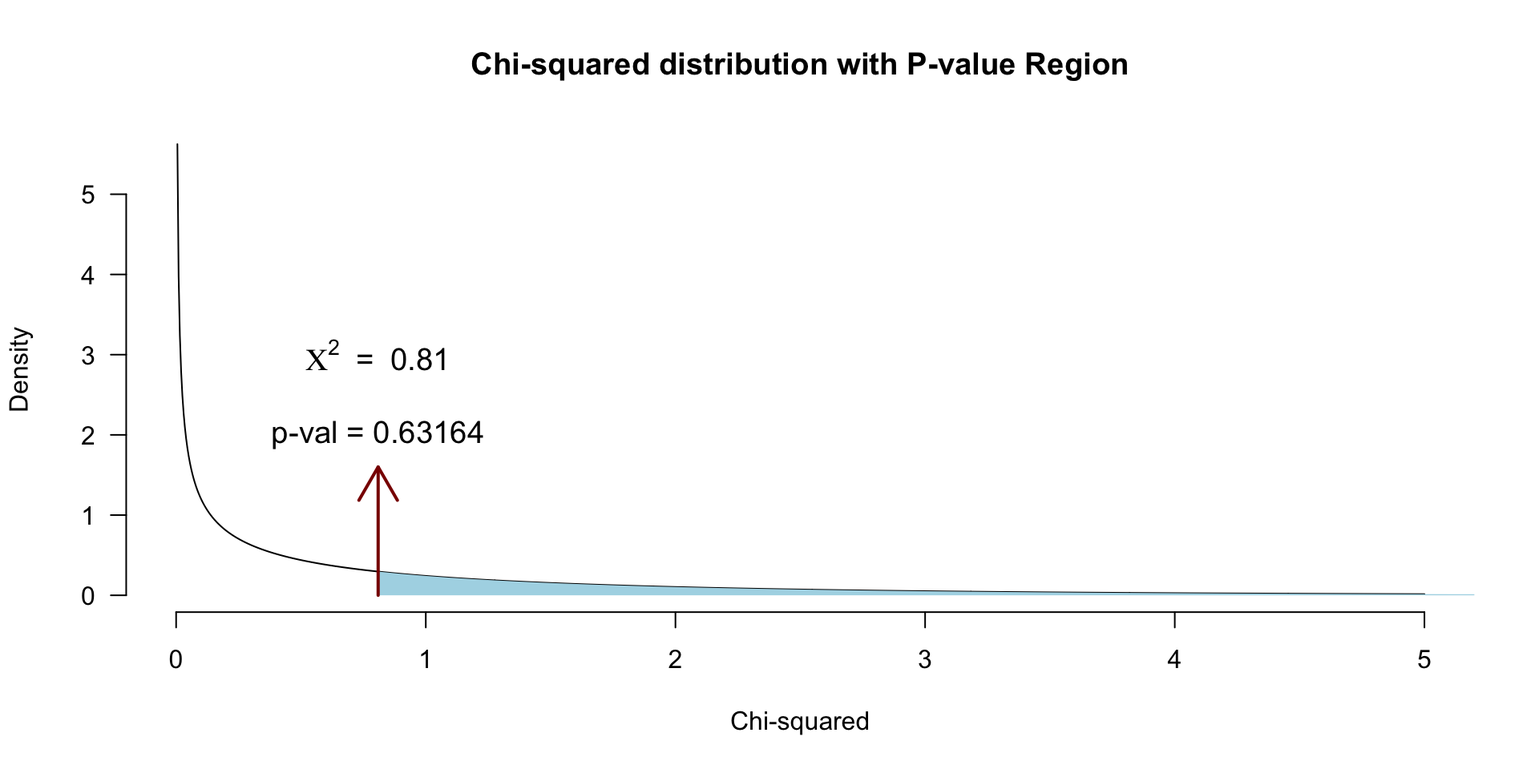
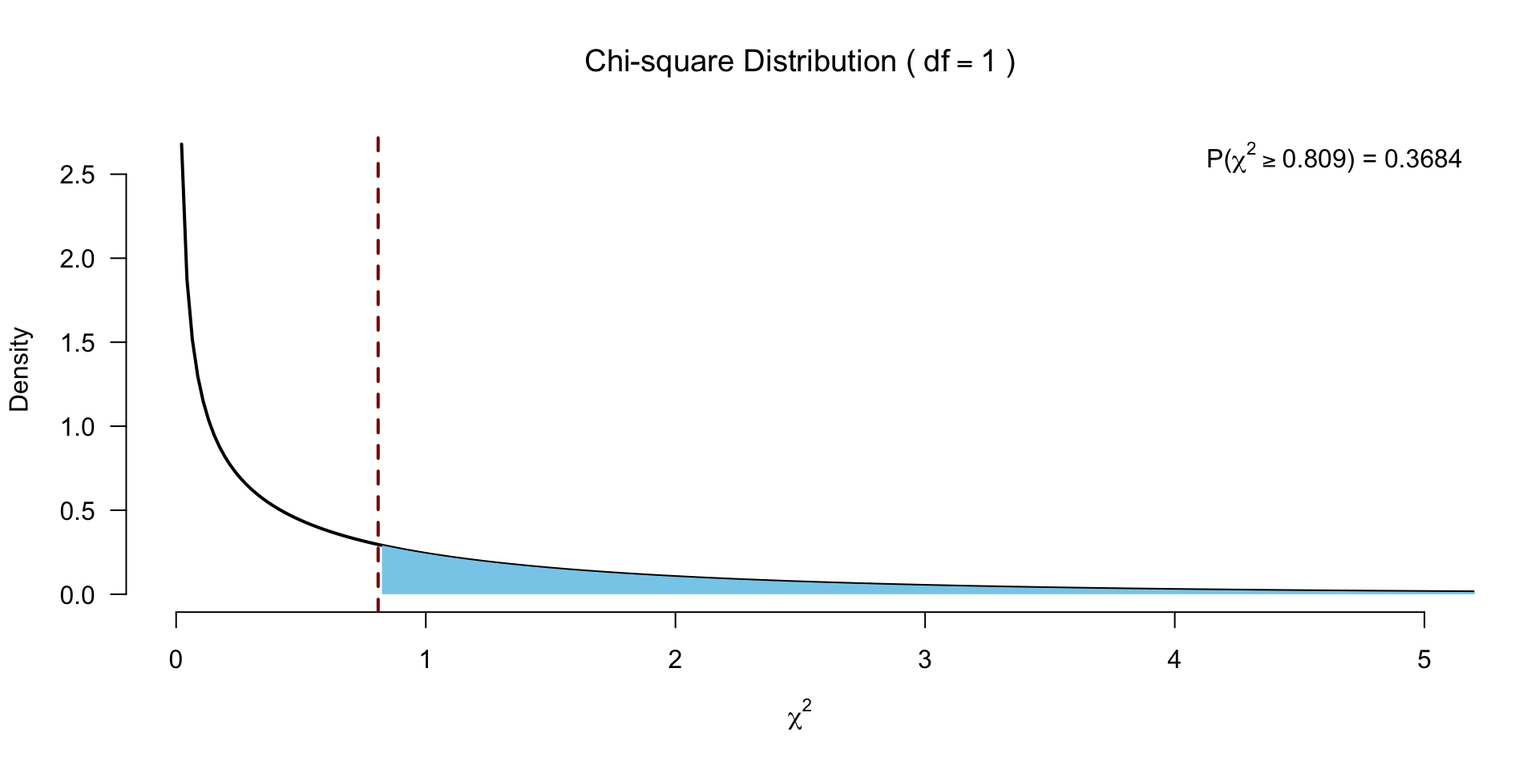
upd chi

diff --git a/SSR/2025/28. chi_squared_test/28. chi_squared_test.slide.html b/SSR/2025/28. chi_squared_test/28. chi_squared_test.slide.html
@@ -405,6 +405,7 @@
 
 <section id="title-slide" data-background-image="../../images/bikes.jpg" data-background-position="bottom" data-background-size="contain" class="quarto-title-block center">
   <h1 class="title">28. Chi-squared test</h1>
+  <p class="subtitle">Contingency Tables</p>
 
 <div class="quarto-title-authors">
 <div class="quarto-title-author">
@@ -423,6 +424,7 @@ Johnny van Doorn
 
 <div class="goals">
 <p>In this lecture we aim to:</p>
+<!-- - Stroll down memory lane -->
 <ul>
 <li>Discuss association between categorical variables
 <ul>
@@ -431,7 +433,8 @@ Johnny van Doorn
 <li>Show this test in JASP</li>
 </ul>
 <p><strong>Reading:</strong> Chapter 16</p>
-</div></section>
+</div>
+</section>
 <section>
 <section id="chi2-test" class="title-slide slide level1 section center">
 <h1><span class="math inline">\(\chi^2\)</span> test</h1>
@@ -471,8 +474,8 @@ Johnny van Doorn
 <div class="cell">
 <div class="cell-output-display">
 
-<div class="datatables html-widget html-fill-item" id="htmlwidget-e1877e20b2d12498623e" style="width:100%;height:auto;"></div>
-<script type="application/json" data-for="htmlwidget-e1877e20b2d12498623e">{"x":{"filter":"none","vertical":false,"data":[["1","2","3","4","5","6","7","8","9","10","11","12","13","14","15","16","17","18","19","20","21","22","23","24","25","26","27","28","29","30","31","32","33","34","35","36","37","38","39","40","41","42","43","44","45","46","47","48","49","50","51","52","53","54","55","56","57","58","59","60","61","62","63","64","65","66","67","68","69","70","71","72","73","74","75","76","77","78","79","80","81","82","83","84","85","86","87","88","89","90","91","92","93","94","95","96","97","98","99","100","101","102","103","104","105","106","107","108","109","110","111","112","113","114","115","116","117"],["Dogs","Other","Cats","Dogs","Dogs","Cats","Dogs","Dogs","Dogs","Other","Dogs","Cats","Dogs","Cats","Cats","Cats","Cats","Cats","Dogs","Cats","Cats","Cats","Dogs","Dogs","Dogs","Dogs","Dogs","Dogs","Dogs","Cats","Cats","Dogs","Cats","Cats","Cats","Cats","Cats","Cats","Dogs","Dogs","Cats","Dogs","Cats","Dogs","Other","Cats","Cats","Dogs","Dogs","Cats","Cats","Cats","Dogs","Cats","Dogs","Cats","Cats","Cats","Dogs","Dogs","Dogs","Cats","Dogs","Cats","Dogs","Other","Cats","Other","Cats","Cats","Dogs","Cats","Dogs","Cats","Dogs","Dogs","Dogs","Dogs","Other","Dogs","Cats","Dogs","Dogs","Cats","Dogs","Dogs","Cats","Dogs","Dogs","Dogs","Cats","Cats","Cats","Cats","Dogs","Dogs","Cats","Cats","Dogs","Other","Dogs","Dogs","Dogs","Dogs","Cats","Cats","Cats","Cats","Dogs","Dogs","Dogs","Cats","Cats","Cats","Other","Dogs","Dogs"],["Live","Live","Live","Live","Live","Live","Live","Live","Live","Live","Live","Live","Live","Live","Live","Live","Digital","Digital","Live","Live","Digital","Live","Live","Live","Live","Live","Live","Digital","Live","Live","Live","Digital","Live","Live","Live","Live","Digital","Live","Digital","Digital","Live","Digital","Live","Live","Live","Digital","Live","Digital","Digital","Digital","Digital","Digital","Live","Live","Digital","Live","Digital","Digital","Digital","Live","Digital","Live","Live","Live","Live","Live","Digital","Digital","Digital","Live","Digital","Digital","Digital","Live","Live","Digital","Digital","Live","Live","Live","Live","Digital","Digital","Digital","Digital","Digital","Digital","Live","Digital","Digital","Digital","Digital","Digital","Live","Digital","Digital","Live","Digital","Digital","Digital","Digital","Digital","Digital","Digital","Digital","Digital","Digital","Digital","Digital","Digital","Digital","Digital","Digital","Digital","Digital","Digital","Digital"],["Introvert","Introvert","Introvert","Extrovert","Introvert","Introvert","Introvert","Extrovert","Extrovert","Extrovert","Extrovert","Introvert","Extrovert","Extrovert","Introvert","Introvert","Introvert","Extrovert","Extrovert","Introvert","Introvert","Introvert","Introvert","Introvert","Extrovert","Introvert","Extrovert","Introvert","Introvert","Introvert","Introvert","Introvert","Introvert","Introvert","Extrovert","Introvert","Introvert","Introvert","Extrovert","Extrovert","Extrovert","Extrovert","Introvert","Introvert","Extrovert","Introvert","Extrovert","Introvert","Extrovert","Introvert","Extrovert","Introvert","Extrovert","Introvert","Extrovert","Introvert","Extrovert","Introvert","Extrovert","Extrovert","Introvert","Introvert","Extrovert","Introvert","Introvert","Introvert","Extrovert","Introvert","Introvert","Extrovert","Introvert","Introvert","Introvert","Extrovert","Introvert","Extrovert","Extrovert","Introvert","Extrovert","Introvert","Extrovert","Introvert","Introvert","Extrovert","Introvert","Extrovert","Extrovert","Introvert","Extrovert","Extrovert","Extrovert","Introvert","Introvert","Introvert","Introvert","Extrovert","Extrovert","Introvert","Extrovert","Extrovert","Introvert","Extrovert","Introvert","Introvert","Extrovert","Extrovert","Introvert","Extrovert","Extrovert","Introvert","Extrovert","Introvert","Introvert","Introvert","Introvert","Extrovert","Extrovert"]],"container":"<table class=\"display\">\n  <thead>\n    <tr>\n      <th> <\/th>\n      <th>Animal<\/th>\n      <th>Lecture<\/th>\n      <th>Personality<\/th>\n    <\/tr>\n  <\/thead>\n<\/table>","options":{"columnDefs":[{"orderable":false,"targets":0},{"name":" ","targets":0},{"name":"Animal","targets":1},{"name":"Lecture","targets":2},{"name":"Personality","targets":3}],"order":[],"autoWidth":false,"orderClasses":false}},"evals":[],"jsHooks":[]}</script>
+<div class="datatables html-widget html-fill-item" id="htmlwidget-d0a11a1b919a54d9ee7f" style="width:100%;height:auto;"></div>
+<script type="application/json" data-for="htmlwidget-d0a11a1b919a54d9ee7f">{"x":{"filter":"none","vertical":false,"data":[["1","2","3","4","5","6","7","8","9","10","11","12","13","14","15","16","17","18","19","20","21","22","23","24","25","26","27","28","29","30","31","32","33","34","35","36","37","38","39","40","41","42","43","44","45","46","47","48","49","50","51","52","53","54","55","56","57","58","59","60","61","62","63","64","65","66","67","68","69","70","71","72","73","74","75","76","77","78","79","80","81","82","83","84","85","86","87","88","89","90","91","92","93","94","95","96","97","98","99","100","101","102","103","104","105","106","107","108","109","110","111","112","113","114","115","116","117"],["Dogs","Other","Cats","Dogs","Dogs","Cats","Dogs","Dogs","Dogs","Other","Dogs","Cats","Dogs","Cats","Cats","Cats","Cats","Cats","Dogs","Cats","Cats","Cats","Dogs","Dogs","Dogs","Dogs","Dogs","Dogs","Dogs","Cats","Cats","Dogs","Cats","Cats","Cats","Cats","Cats","Cats","Dogs","Dogs","Cats","Dogs","Cats","Dogs","Other","Cats","Cats","Dogs","Dogs","Cats","Cats","Cats","Dogs","Cats","Dogs","Cats","Cats","Cats","Dogs","Dogs","Dogs","Cats","Dogs","Cats","Dogs","Other","Cats","Other","Cats","Cats","Dogs","Cats","Dogs","Cats","Dogs","Dogs","Dogs","Dogs","Other","Dogs","Cats","Dogs","Dogs","Cats","Dogs","Dogs","Cats","Dogs","Dogs","Dogs","Cats","Cats","Cats","Cats","Dogs","Dogs","Cats","Cats","Dogs","Other","Dogs","Dogs","Dogs","Dogs","Cats","Cats","Cats","Cats","Dogs","Dogs","Dogs","Cats","Cats","Cats","Other","Dogs","Dogs"],["Live","Live","Live","Live","Live","Live","Live","Live","Live","Live","Live","Live","Live","Live","Live","Live","Digital","Digital","Live","Live","Digital","Live","Live","Live","Live","Live","Live","Digital","Live","Live","Live","Digital","Live","Live","Live","Live","Digital","Live","Digital","Digital","Live","Digital","Live","Live","Live","Digital","Live","Digital","Digital","Digital","Digital","Digital","Live","Live","Digital","Live","Digital","Digital","Digital","Live","Digital","Live","Live","Live","Live","Live","Digital","Digital","Digital","Live","Digital","Digital","Digital","Live","Live","Digital","Digital","Live","Live","Live","Live","Digital","Digital","Digital","Digital","Digital","Digital","Live","Digital","Digital","Digital","Digital","Digital","Live","Digital","Digital","Live","Digital","Digital","Digital","Digital","Digital","Digital","Digital","Digital","Digital","Digital","Digital","Digital","Digital","Digital","Digital","Digital","Digital","Digital","Digital","Digital"],["Introvert","Introvert","Introvert","Extrovert","Introvert","Introvert","Introvert","Extrovert","Extrovert","Extrovert","Extrovert","Introvert","Extrovert","Extrovert","Introvert","Introvert","Introvert","Extrovert","Extrovert","Introvert","Introvert","Introvert","Introvert","Introvert","Extrovert","Introvert","Extrovert","Introvert","Introvert","Introvert","Introvert","Introvert","Introvert","Introvert","Extrovert","Introvert","Introvert","Introvert","Extrovert","Extrovert","Extrovert","Extrovert","Introvert","Introvert","Extrovert","Introvert","Extrovert","Introvert","Extrovert","Introvert","Extrovert","Introvert","Extrovert","Introvert","Extrovert","Introvert","Extrovert","Introvert","Extrovert","Extrovert","Introvert","Introvert","Extrovert","Introvert","Introvert","Introvert","Extrovert","Introvert","Introvert","Extrovert","Introvert","Introvert","Introvert","Extrovert","Introvert","Extrovert","Extrovert","Introvert","Extrovert","Introvert","Extrovert","Introvert","Introvert","Extrovert","Introvert","Extrovert","Extrovert","Introvert","Extrovert","Extrovert","Extrovert","Introvert","Introvert","Introvert","Introvert","Extrovert","Extrovert","Introvert","Extrovert","Extrovert","Introvert","Extrovert","Introvert","Introvert","Extrovert","Extrovert","Introvert","Extrovert","Extrovert","Introvert","Extrovert","Introvert","Introvert","Introvert","Introvert","Extrovert","Extrovert"]],"container":"<table class=\"display\">\n  <thead>\n    <tr>\n      <th> <\/th>\n      <th>Animal<\/th>\n      <th>Lecture<\/th>\n      <th>Personality<\/th>\n    <\/tr>\n  <\/thead>\n<\/table>","options":{"columnDefs":[{"orderable":false,"targets":0},{"name":" ","targets":0},{"name":"Animal","targets":1},{"name":"Lecture","targets":2},{"name":"Personality","targets":3}],"order":[],"autoWidth":false,"orderClasses":false}},"evals":[],"jsHooks":[]}</script>
 </div>
 </div>
 </small><p><small></small></p>
@@ -610,7 +613,7 @@ Lecture   Extrovert Introvert
 <div class="cell-output cell-output-stdout">
 <pre><code>[1] 0.5082869</code></pre>
 </div>
-<div class="sourceCode cell-code" id="cb17"><pre class="sourceCode numberSource r number-lines code-with-copy"><code class="sourceCode r"><span id="cb17-1"><a href="#cb17-1"></a>visualize<span class="sc">::</span><span class="fu">visualize.chisq</span>(chi.squared.yates, df, <span class="at">section=</span><span class="st">'upper'</span>)</span></code><button title="Copy to Clipboard" class="code-copy-button"><i class="bi"></i></button></pre></div>
+<div class="sourceCode cell-code" id="cb17"><pre class="sourceCode numberSource r number-lines code-with-copy"><code class="sourceCode r"><span id="cb17-1"><a href="#cb17-1"></a><span class="fu">visualize_chisq_base</span>(<span class="at">H =</span> chi.squared.yates, <span class="at">df =</span> df, <span class="at">section =</span> <span class="st">"upper"</span>, <span class="at">myLimX =</span> <span class="fu">c</span>(<span class="dv">0</span>, <span class="dv">5</span>))</span></code><button title="Copy to Clipboard" class="code-copy-button"><i class="bi"></i></button></pre></div>
 <div class="cell-output-display">
 <p><img data-src="28.-chi_squared_test_files/figure-revealjs/unnamed-chunk-13-1.png" width="960"></p>
 </div>
@@ -680,7 +683,7 @@ Lecture   Extrovert Introvert
 <h2>Odds ratio</h2>
 <p>Is the ratio of these odds.</p>
 <p><span class="math inline">\(OR = \frac{\text{digital}}{\text{live}} = \frac{0.90625}{0.6470588} = \frac{\text{extrovert}}{\text{introvert}} = \frac{1.3181818}{0.9411765} = 1.4005682\)</span></p>
-<p>For this data, extroverts were approximately 1.4 times more likely to watch digitally, compared to introverts. The odds ratio also accounts for the scores in both conditions—watching digitally and watching live—by comparing the odds of watching digitally to live viewing across both personality types.</p>
+<p>For these data, extroverts were approximately 1.4 times more likely to watch digitally, compared to introverts. The odds ratio also accounts for the scores in both conditions—watching digitally and watching live—by comparing the odds of watching digitally to live viewing across both personality types.</p>
 </section></section>
 <section>
 <section id="closing" class="title-slide slide level1 center">
@@ -700,7 +703,7 @@ Lecture   Extrovert Introvert
 <div>
 <ul>
 <li><a href="https://discoverjasp.com/pages/smart_alex#task-16.1">Exercise 16.1</a>,<br>
-<a href="https://discoverjasp.com/pages/smart_alex#task-16.6">Exercise 16.6</a> <a href="https://discoverjasp.com/pages/smart_alex#task-16.7">Exercise 16.7</a>,</li>
+<a href="https://discoverjasp.com/pages/smart_alex#task-16.6">Exercise 16.6</a>, <a href="https://discoverjasp.com/pages/smart_alex#task-16.7">Exercise 16.7</a></li>
 </ul>
 </div>
 </section>

diff --git a/SSR/2025/28. chi_squared_test/28. chi_squared_test.html b/SSR/2025/28. chi_squared_test/28. chi_squared_test.html
@@ -169,6 +169,7 @@ pre > code.sourceCode > span > a:first-child::before { text-decoration: underlin
 
 <div class="goals">
 <p>In this lecture we aim to:</p>
+<!-- - Stroll down memory lane -->
 <ul>
 <li>Discuss association between categorical variables
 <ul>
@@ -221,8 +222,8 @@ pre > code.sourceCode > span > a:first-child::before { text-decoration: underlin
 <div class="cell">
 <div class="cell-output-display">
 
-<div class="datatables html-widget html-fill-item" id="htmlwidget-f419b4abf6e464fcab43" style="width:100%;height:auto;"></div>
-<script type="application/json" data-for="htmlwidget-f419b4abf6e464fcab43">{"x":{"filter":"none","vertical":false,"data":[["1","2","3","4","5","6","7","8","9","10","11","12","13","14","15","16","17","18","19","20","21","22","23","24","25","26","27","28","29","30","31","32","33","34","35","36","37","38","39","40","41","42","43","44","45","46","47","48","49","50","51","52","53","54","55","56","57","58","59","60","61","62","63","64","65","66","67","68","69","70","71","72","73","74","75","76","77","78","79","80","81","82","83","84","85","86","87","88","89","90","91","92","93","94","95","96","97","98","99","100","101","102","103","104","105","106","107","108","109","110","111","112","113","114","115","116","117"],["Dogs","Other","Cats","Dogs","Dogs","Cats","Dogs","Dogs","Dogs","Other","Dogs","Cats","Dogs","Cats","Cats","Cats","Cats","Cats","Dogs","Cats","Cats","Cats","Dogs","Dogs","Dogs","Dogs","Dogs","Dogs","Dogs","Cats","Cats","Dogs","Cats","Cats","Cats","Cats","Cats","Cats","Dogs","Dogs","Cats","Dogs","Cats","Dogs","Other","Cats","Cats","Dogs","Dogs","Cats","Cats","Cats","Dogs","Cats","Dogs","Cats","Cats","Cats","Dogs","Dogs","Dogs","Cats","Dogs","Cats","Dogs","Other","Cats","Other","Cats","Cats","Dogs","Cats","Dogs","Cats","Dogs","Dogs","Dogs","Dogs","Other","Dogs","Cats","Dogs","Dogs","Cats","Dogs","Dogs","Cats","Dogs","Dogs","Dogs","Cats","Cats","Cats","Cats","Dogs","Dogs","Cats","Cats","Dogs","Other","Dogs","Dogs","Dogs","Dogs","Cats","Cats","Cats","Cats","Dogs","Dogs","Dogs","Cats","Cats","Cats","Other","Dogs","Dogs"],["Live","Live","Live","Live","Live","Live","Live","Live","Live","Live","Live","Live","Live","Live","Live","Live","Digital","Digital","Live","Live","Digital","Live","Live","Live","Live","Live","Live","Digital","Live","Live","Live","Digital","Live","Live","Live","Live","Digital","Live","Digital","Digital","Live","Digital","Live","Live","Live","Digital","Live","Digital","Digital","Digital","Digital","Digital","Live","Live","Digital","Live","Digital","Digital","Digital","Live","Digital","Live","Live","Live","Live","Live","Digital","Digital","Digital","Live","Digital","Digital","Digital","Live","Live","Digital","Digital","Live","Live","Live","Live","Digital","Digital","Digital","Digital","Digital","Digital","Live","Digital","Digital","Digital","Digital","Digital","Live","Digital","Digital","Live","Digital","Digital","Digital","Digital","Digital","Digital","Digital","Digital","Digital","Digital","Digital","Digital","Digital","Digital","Digital","Digital","Digital","Digital","Digital","Digital"],["Introvert","Introvert","Introvert","Extrovert","Introvert","Introvert","Introvert","Extrovert","Extrovert","Extrovert","Extrovert","Introvert","Extrovert","Extrovert","Introvert","Introvert","Introvert","Extrovert","Extrovert","Introvert","Introvert","Introvert","Introvert","Introvert","Extrovert","Introvert","Extrovert","Introvert","Introvert","Introvert","Introvert","Introvert","Introvert","Introvert","Extrovert","Introvert","Introvert","Introvert","Extrovert","Extrovert","Extrovert","Extrovert","Introvert","Introvert","Extrovert","Introvert","Extrovert","Introvert","Extrovert","Introvert","Extrovert","Introvert","Extrovert","Introvert","Extrovert","Introvert","Extrovert","Introvert","Extrovert","Extrovert","Introvert","Introvert","Extrovert","Introvert","Introvert","Introvert","Extrovert","Introvert","Introvert","Extrovert","Introvert","Introvert","Introvert","Extrovert","Introvert","Extrovert","Extrovert","Introvert","Extrovert","Introvert","Extrovert","Introvert","Introvert","Extrovert","Introvert","Extrovert","Extrovert","Introvert","Extrovert","Extrovert","Extrovert","Introvert","Introvert","Introvert","Introvert","Extrovert","Extrovert","Introvert","Extrovert","Extrovert","Introvert","Extrovert","Introvert","Introvert","Extrovert","Extrovert","Introvert","Extrovert","Extrovert","Introvert","Extrovert","Introvert","Introvert","Introvert","Introvert","Extrovert","Extrovert"]],"container":"<table class=\"display\">\n  <thead>\n    <tr>\n      <th> <\/th>\n      <th>Animal<\/th>\n      <th>Lecture<\/th>\n      <th>Personality<\/th>\n    <\/tr>\n  <\/thead>\n<\/table>","options":{"columnDefs":[{"orderable":false,"targets":0},{"name":" ","targets":0},{"name":"Animal","targets":1},{"name":"Lecture","targets":2},{"name":"Personality","targets":3}],"order":[],"autoWidth":false,"orderClasses":false}},"evals":[],"jsHooks":[]}</script>
+<div class="datatables html-widget html-fill-item" id="htmlwidget-69da5f7ea15a9c88c413" style="width:100%;height:auto;"></div>
+<script type="application/json" data-for="htmlwidget-69da5f7ea15a9c88c413">{"x":{"filter":"none","vertical":false,"data":[["1","2","3","4","5","6","7","8","9","10","11","12","13","14","15","16","17","18","19","20","21","22","23","24","25","26","27","28","29","30","31","32","33","34","35","36","37","38","39","40","41","42","43","44","45","46","47","48","49","50","51","52","53","54","55","56","57","58","59","60","61","62","63","64","65","66","67","68","69","70","71","72","73","74","75","76","77","78","79","80","81","82","83","84","85","86","87","88","89","90","91","92","93","94","95","96","97","98","99","100","101","102","103","104","105","106","107","108","109","110","111","112","113","114","115","116","117"],["Dogs","Other","Cats","Dogs","Dogs","Cats","Dogs","Dogs","Dogs","Other","Dogs","Cats","Dogs","Cats","Cats","Cats","Cats","Cats","Dogs","Cats","Cats","Cats","Dogs","Dogs","Dogs","Dogs","Dogs","Dogs","Dogs","Cats","Cats","Dogs","Cats","Cats","Cats","Cats","Cats","Cats","Dogs","Dogs","Cats","Dogs","Cats","Dogs","Other","Cats","Cats","Dogs","Dogs","Cats","Cats","Cats","Dogs","Cats","Dogs","Cats","Cats","Cats","Dogs","Dogs","Dogs","Cats","Dogs","Cats","Dogs","Other","Cats","Other","Cats","Cats","Dogs","Cats","Dogs","Cats","Dogs","Dogs","Dogs","Dogs","Other","Dogs","Cats","Dogs","Dogs","Cats","Dogs","Dogs","Cats","Dogs","Dogs","Dogs","Cats","Cats","Cats","Cats","Dogs","Dogs","Cats","Cats","Dogs","Other","Dogs","Dogs","Dogs","Dogs","Cats","Cats","Cats","Cats","Dogs","Dogs","Dogs","Cats","Cats","Cats","Other","Dogs","Dogs"],["Live","Live","Live","Live","Live","Live","Live","Live","Live","Live","Live","Live","Live","Live","Live","Live","Digital","Digital","Live","Live","Digital","Live","Live","Live","Live","Live","Live","Digital","Live","Live","Live","Digital","Live","Live","Live","Live","Digital","Live","Digital","Digital","Live","Digital","Live","Live","Live","Digital","Live","Digital","Digital","Digital","Digital","Digital","Live","Live","Digital","Live","Digital","Digital","Digital","Live","Digital","Live","Live","Live","Live","Live","Digital","Digital","Digital","Live","Digital","Digital","Digital","Live","Live","Digital","Digital","Live","Live","Live","Live","Digital","Digital","Digital","Digital","Digital","Digital","Live","Digital","Digital","Digital","Digital","Digital","Live","Digital","Digital","Live","Digital","Digital","Digital","Digital","Digital","Digital","Digital","Digital","Digital","Digital","Digital","Digital","Digital","Digital","Digital","Digital","Digital","Digital","Digital","Digital"],["Introvert","Introvert","Introvert","Extrovert","Introvert","Introvert","Introvert","Extrovert","Extrovert","Extrovert","Extrovert","Introvert","Extrovert","Extrovert","Introvert","Introvert","Introvert","Extrovert","Extrovert","Introvert","Introvert","Introvert","Introvert","Introvert","Extrovert","Introvert","Extrovert","Introvert","Introvert","Introvert","Introvert","Introvert","Introvert","Introvert","Extrovert","Introvert","Introvert","Introvert","Extrovert","Extrovert","Extrovert","Extrovert","Introvert","Introvert","Extrovert","Introvert","Extrovert","Introvert","Extrovert","Introvert","Extrovert","Introvert","Extrovert","Introvert","Extrovert","Introvert","Extrovert","Introvert","Extrovert","Extrovert","Introvert","Introvert","Extrovert","Introvert","Introvert","Introvert","Extrovert","Introvert","Introvert","Extrovert","Introvert","Introvert","Introvert","Extrovert","Introvert","Extrovert","Extrovert","Introvert","Extrovert","Introvert","Extrovert","Introvert","Introvert","Extrovert","Introvert","Extrovert","Extrovert","Introvert","Extrovert","Extrovert","Extrovert","Introvert","Introvert","Introvert","Introvert","Extrovert","Extrovert","Introvert","Extrovert","Extrovert","Introvert","Extrovert","Introvert","Introvert","Extrovert","Extrovert","Introvert","Extrovert","Extrovert","Introvert","Extrovert","Introvert","Introvert","Introvert","Introvert","Extrovert","Extrovert"]],"container":"<table class=\"display\">\n  <thead>\n    <tr>\n      <th> <\/th>\n      <th>Animal<\/th>\n      <th>Lecture<\/th>\n      <th>Personality<\/th>\n    <\/tr>\n  <\/thead>\n<\/table>","options":{"columnDefs":[{"orderable":false,"targets":0},{"name":" ","targets":0},{"name":"Animal","targets":1},{"name":"Lecture","targets":2},{"name":"Personality","targets":3}],"order":[],"autoWidth":false,"orderClasses":false}},"evals":[],"jsHooks":[]}</script>
 </div>
 </div>
 </small><p><small></small></p>
@@ -351,7 +352,7 @@ Lecture   Extrovert Introvert
 <div class="cell-output cell-output-stdout">
 <pre><code>[1] 0.5082869</code></pre>
 </div>
-<div class="sourceCode cell-code" id="cb17"><pre class="sourceCode r code-with-copy"><code class="sourceCode r"><span id="cb17-1"><a href="#cb17-1" aria-hidden="true" tabindex="-1"></a>visualize<span class="sc">::</span><span class="fu">visualize.chisq</span>(chi.squared.yates, df, <span class="at">section=</span><span class="st">'upper'</span>)</span></code><button title="Copy to Clipboard" class="code-copy-button"><i class="bi"></i></button></pre></div>
+<div class="sourceCode cell-code" id="cb17"><pre class="sourceCode r code-with-copy"><code class="sourceCode r"><span id="cb17-1"><a href="#cb17-1" aria-hidden="true" tabindex="-1"></a><span class="fu">visualize_chisq_base</span>(<span class="at">H =</span> chi.squared.yates, <span class="at">df =</span> df, <span class="at">section =</span> <span class="st">"upper"</span>, <span class="at">myLimX =</span> <span class="fu">c</span>(<span class="dv">0</span>, <span class="dv">5</span>))</span></code><button title="Copy to Clipboard" class="code-copy-button"><i class="bi"></i></button></pre></div>
 <div class="cell-output-display">
 <p><img src="28.-chi_squared_test_files/figure-html/unnamed-chunk-13-1.png" class="img-fluid" width="672"></p>
 </div>
@@ -432,7 +433,7 @@ Lecture   Extrovert Introvert
 <h2 class="anchored" data-anchor-id="odds-ratio">Odds ratio</h2>
 <p>Is the ratio of these odds.</p>
 <p><span class="math inline">\(OR = \frac{\text{digital}}{\text{live}} = \frac{0.90625}{0.6470588} = \frac{\text{extrovert}}{\text{introvert}} = \frac{1.3181818}{0.9411765} = 1.4005682\)</span></p>
-<p>For this data, extroverts were approximately 1.4 times more likely to watch digitally, compared to introverts. The odds ratio also accounts for the scores in both conditions—watching digitally and watching live—by comparing the odds of watching digitally to live viewing across both personality types.</p>
+<p>For these data, extroverts were approximately 1.4 times more likely to watch digitally, compared to introverts. The odds ratio also accounts for the scores in both conditions—watching digitally and watching live—by comparing the odds of watching digitally to live viewing across both personality types.</p>
 </section>
 </section>
 <section id="closing" class="level1">
@@ -450,7 +451,7 @@ Lecture   Extrovert Introvert
 <div>
 <ul>
 <li><a href="https://discoverjasp.com/pages/smart_alex#task-16.1">Exercise 16.1</a>,<br>
-<a href="https://discoverjasp.com/pages/smart_alex#task-16.6">Exercise 16.6</a> <a href="https://discoverjasp.com/pages/smart_alex#task-16.7">Exercise 16.7</a>,</li>
+<a href="https://discoverjasp.com/pages/smart_alex#task-16.6">Exercise 16.6</a>, <a href="https://discoverjasp.com/pages/smart_alex#task-16.7">Exercise 16.7</a></li>
 </ul>
 </div>
 </section>

diff --git a/SSR/topics/chi_square/chi_square_test.html b/SSR/topics/chi_square/chi_square_test.html
@@ -167,8 +167,8 @@ pre > code.sourceCode > span > a:first-child::before { text-decoration: underlin
 <div class="cell">
 <div class="cell-output-display">
 
-<div class="datatables html-widget html-fill-item" id="htmlwidget-d29232f9374ef1bea55f" style="width:100%;height:auto;"></div>
-<script type="application/json" data-for="htmlwidget-d29232f9374ef1bea55f">{"x":{"filter":"none","vertical":false,"data":[["1","2","3","4","5","6","7","8","9","10","11","12","13","14","15","16","17","18","19","20","21","22","23","24","25","26","27","28","29","30","31","32","33","34","35","36","37","38","39","40","41","42","43","44","45","46","47","48","49","50","51","52","53","54","55","56","57","58","59","60","61","62","63","64","65","66","67","68","69","70","71","72","73","74","75","76","77","78","79","80","81","82","83","84","85","86","87","88","89","90","91","92","93","94","95","96","97","98","99","100","101","102","103","104","105","106","107","108","109","110","111","112","113","114","115","116","117"],["Dogs","Other","Cats","Dogs","Dogs","Cats","Dogs","Dogs","Dogs","Other","Dogs","Cats","Dogs","Cats","Cats","Cats","Cats","Cats","Dogs","Cats","Cats","Cats","Dogs","Dogs","Dogs","Dogs","Dogs","Dogs","Dogs","Cats","Cats","Dogs","Cats","Cats","Cats","Cats","Cats","Cats","Dogs","Dogs","Cats","Dogs","Cats","Dogs","Other","Cats","Cats","Dogs","Dogs","Cats","Cats","Cats","Dogs","Cats","Dogs","Cats","Cats","Cats","Dogs","Dogs","Dogs","Cats","Dogs","Cats","Dogs","Other","Cats","Other","Cats","Cats","Dogs","Cats","Dogs","Cats","Dogs","Dogs","Dogs","Dogs","Other","Dogs","Cats","Dogs","Dogs","Cats","Dogs","Dogs","Cats","Dogs","Dogs","Dogs","Cats","Cats","Cats","Cats","Dogs","Dogs","Cats","Cats","Dogs","Other","Dogs","Dogs","Dogs","Dogs","Cats","Cats","Cats","Cats","Dogs","Dogs","Dogs","Cats","Cats","Cats","Other","Dogs","Dogs"],["Live","Live","Live","Live","Live","Live","Live","Live","Live","Live","Live","Live","Live","Live","Live","Live","Digital","Digital","Live","Live","Digital","Live","Live","Live","Live","Live","Live","Digital","Live","Live","Live","Digital","Live","Live","Live","Live","Digital","Live","Digital","Digital","Live","Digital","Live","Live","Live","Digital","Live","Digital","Digital","Digital","Digital","Digital","Live","Live","Digital","Live","Digital","Digital","Digital","Live","Digital","Live","Live","Live","Live","Live","Digital","Digital","Digital","Live","Digital","Digital","Digital","Live","Live","Digital","Digital","Live","Live","Live","Live","Digital","Digital","Digital","Digital","Digital","Digital","Live","Digital","Digital","Digital","Digital","Digital","Live","Digital","Digital","Live","Digital","Digital","Digital","Digital","Digital","Digital","Digital","Digital","Digital","Digital","Digital","Digital","Digital","Digital","Digital","Digital","Digital","Digital","Digital","Digital"],["Introvert","Introvert","Introvert","Extrovert","Introvert","Introvert","Introvert","Extrovert","Extrovert","Extrovert","Extrovert","Introvert","Extrovert","Extrovert","Introvert","Introvert","Introvert","Extrovert","Extrovert","Introvert","Introvert","Introvert","Introvert","Introvert","Extrovert","Introvert","Extrovert","Introvert","Introvert","Introvert","Introvert","Introvert","Introvert","Introvert","Extrovert","Introvert","Introvert","Introvert","Extrovert","Extrovert","Extrovert","Extrovert","Introvert","Introvert","Extrovert","Introvert","Extrovert","Introvert","Extrovert","Introvert","Extrovert","Introvert","Extrovert","Introvert","Extrovert","Introvert","Extrovert","Introvert","Extrovert","Extrovert","Introvert","Introvert","Extrovert","Introvert","Introvert","Introvert","Extrovert","Introvert","Introvert","Extrovert","Introvert","Introvert","Introvert","Extrovert","Introvert","Extrovert","Extrovert","Introvert","Extrovert","Introvert","Extrovert","Introvert","Introvert","Extrovert","Introvert","Extrovert","Extrovert","Introvert","Extrovert","Extrovert","Extrovert","Introvert","Introvert","Introvert","Introvert","Extrovert","Extrovert","Introvert","Extrovert","Extrovert","Introvert","Extrovert","Introvert","Introvert","Extrovert","Extrovert","Introvert","Extrovert","Extrovert","Introvert","Extrovert","Introvert","Introvert","Introvert","Introvert","Extrovert","Extrovert"]],"container":"<table class=\"display\">\n  <thead>\n    <tr>\n      <th> <\/th>\n      <th>Animal<\/th>\n      <th>Lecture<\/th>\n      <th>Personality<\/th>\n    <\/tr>\n  <\/thead>\n<\/table>","options":{"columnDefs":[{"orderable":false,"targets":0},{"name":" ","targets":0},{"name":"Animal","targets":1},{"name":"Lecture","targets":2},{"name":"Personality","targets":3}],"order":[],"autoWidth":false,"orderClasses":false}},"evals":[],"jsHooks":[]}</script>
+<div class="datatables html-widget html-fill-item" id="htmlwidget-970e35b21907b9cb9ac3" style="width:100%;height:auto;"></div>
+<script type="application/json" data-for="htmlwidget-970e35b21907b9cb9ac3">{"x":{"filter":"none","vertical":false,"data":[["1","2","3","4","5","6","7","8","9","10","11","12","13","14","15","16","17","18","19","20","21","22","23","24","25","26","27","28","29","30","31","32","33","34","35","36","37","38","39","40","41","42","43","44","45","46","47","48","49","50","51","52","53","54","55","56","57","58","59","60","61","62","63","64","65","66","67","68","69","70","71","72","73","74","75","76","77","78","79","80","81","82","83","84","85","86","87","88","89","90","91","92","93","94","95","96","97","98","99","100","101","102","103","104","105","106","107","108","109","110","111","112","113","114","115","116","117"],["Dogs","Other","Cats","Dogs","Dogs","Cats","Dogs","Dogs","Dogs","Other","Dogs","Cats","Dogs","Cats","Cats","Cats","Cats","Cats","Dogs","Cats","Cats","Cats","Dogs","Dogs","Dogs","Dogs","Dogs","Dogs","Dogs","Cats","Cats","Dogs","Cats","Cats","Cats","Cats","Cats","Cats","Dogs","Dogs","Cats","Dogs","Cats","Dogs","Other","Cats","Cats","Dogs","Dogs","Cats","Cats","Cats","Dogs","Cats","Dogs","Cats","Cats","Cats","Dogs","Dogs","Dogs","Cats","Dogs","Cats","Dogs","Other","Cats","Other","Cats","Cats","Dogs","Cats","Dogs","Cats","Dogs","Dogs","Dogs","Dogs","Other","Dogs","Cats","Dogs","Dogs","Cats","Dogs","Dogs","Cats","Dogs","Dogs","Dogs","Cats","Cats","Cats","Cats","Dogs","Dogs","Cats","Cats","Dogs","Other","Dogs","Dogs","Dogs","Dogs","Cats","Cats","Cats","Cats","Dogs","Dogs","Dogs","Cats","Cats","Cats","Other","Dogs","Dogs"],["Live","Live","Live","Live","Live","Live","Live","Live","Live","Live","Live","Live","Live","Live","Live","Live","Digital","Digital","Live","Live","Digital","Live","Live","Live","Live","Live","Live","Digital","Live","Live","Live","Digital","Live","Live","Live","Live","Digital","Live","Digital","Digital","Live","Digital","Live","Live","Live","Digital","Live","Digital","Digital","Digital","Digital","Digital","Live","Live","Digital","Live","Digital","Digital","Digital","Live","Digital","Live","Live","Live","Live","Live","Digital","Digital","Digital","Live","Digital","Digital","Digital","Live","Live","Digital","Digital","Live","Live","Live","Live","Digital","Digital","Digital","Digital","Digital","Digital","Live","Digital","Digital","Digital","Digital","Digital","Live","Digital","Digital","Live","Digital","Digital","Digital","Digital","Digital","Digital","Digital","Digital","Digital","Digital","Digital","Digital","Digital","Digital","Digital","Digital","Digital","Digital","Digital","Digital"],["Introvert","Introvert","Introvert","Extrovert","Introvert","Introvert","Introvert","Extrovert","Extrovert","Extrovert","Extrovert","Introvert","Extrovert","Extrovert","Introvert","Introvert","Introvert","Extrovert","Extrovert","Introvert","Introvert","Introvert","Introvert","Introvert","Extrovert","Introvert","Extrovert","Introvert","Introvert","Introvert","Introvert","Introvert","Introvert","Introvert","Extrovert","Introvert","Introvert","Introvert","Extrovert","Extrovert","Extrovert","Extrovert","Introvert","Introvert","Extrovert","Introvert","Extrovert","Introvert","Extrovert","Introvert","Extrovert","Introvert","Extrovert","Introvert","Extrovert","Introvert","Extrovert","Introvert","Extrovert","Extrovert","Introvert","Introvert","Extrovert","Introvert","Introvert","Introvert","Extrovert","Introvert","Introvert","Extrovert","Introvert","Introvert","Introvert","Extrovert","Introvert","Extrovert","Extrovert","Introvert","Extrovert","Introvert","Extrovert","Introvert","Introvert","Extrovert","Introvert","Extrovert","Extrovert","Introvert","Extrovert","Extrovert","Extrovert","Introvert","Introvert","Introvert","Introvert","Extrovert","Extrovert","Introvert","Extrovert","Extrovert","Introvert","Extrovert","Introvert","Introvert","Extrovert","Extrovert","Introvert","Extrovert","Extrovert","Introvert","Extrovert","Introvert","Introvert","Introvert","Introvert","Extrovert","Extrovert"]],"container":"<table class=\"display\">\n  <thead>\n    <tr>\n      <th> <\/th>\n      <th>Animal<\/th>\n      <th>Lecture<\/th>\n      <th>Personality<\/th>\n    <\/tr>\n  <\/thead>\n<\/table>","options":{"columnDefs":[{"orderable":false,"targets":0},{"name":" ","targets":0},{"name":"Animal","targets":1},{"name":"Lecture","targets":2},{"name":"Personality","targets":3}],"order":[],"autoWidth":false,"orderClasses":false}},"evals":[],"jsHooks":[]}</script>
 </div>
 </div>
 </small><p><small></small></p>
@@ -297,7 +297,7 @@ Lecture   Extrovert Introvert
 <div class="cell-output cell-output-stdout">
 <pre><code>[1] 0.5082869</code></pre>
 </div>
-<div class="sourceCode cell-code" id="cb17"><pre class="sourceCode r code-with-copy"><code class="sourceCode r"><span id="cb17-1"><a href="#cb17-1" aria-hidden="true" tabindex="-1"></a>visualize<span class="sc">::</span><span class="fu">visualize.chisq</span>(chi.squared.yates, df, <span class="at">section=</span><span class="st">'upper'</span>)</span></code><button title="Copy to Clipboard" class="code-copy-button"><i class="bi"></i></button></pre></div>
+<div class="sourceCode cell-code" id="cb17"><pre class="sourceCode r code-with-copy"><code class="sourceCode r"><span id="cb17-1"><a href="#cb17-1" aria-hidden="true" tabindex="-1"></a><span class="fu">visualize_chisq_base</span>(<span class="at">H =</span> chi.squared.yates, <span class="at">df =</span> df, <span class="at">section =</span> <span class="st">"upper"</span>, <span class="at">myLimX =</span> <span class="fu">c</span>(<span class="dv">0</span>, <span class="dv">5</span>))</span></code><button title="Copy to Clipboard" class="code-copy-button"><i class="bi"></i></button></pre></div>
 <div class="cell-output-display">
 <p><img src="chi_square_test_files/figure-html/unnamed-chunk-10-1.png" class="img-fluid" width="672"></p>
 </div>
